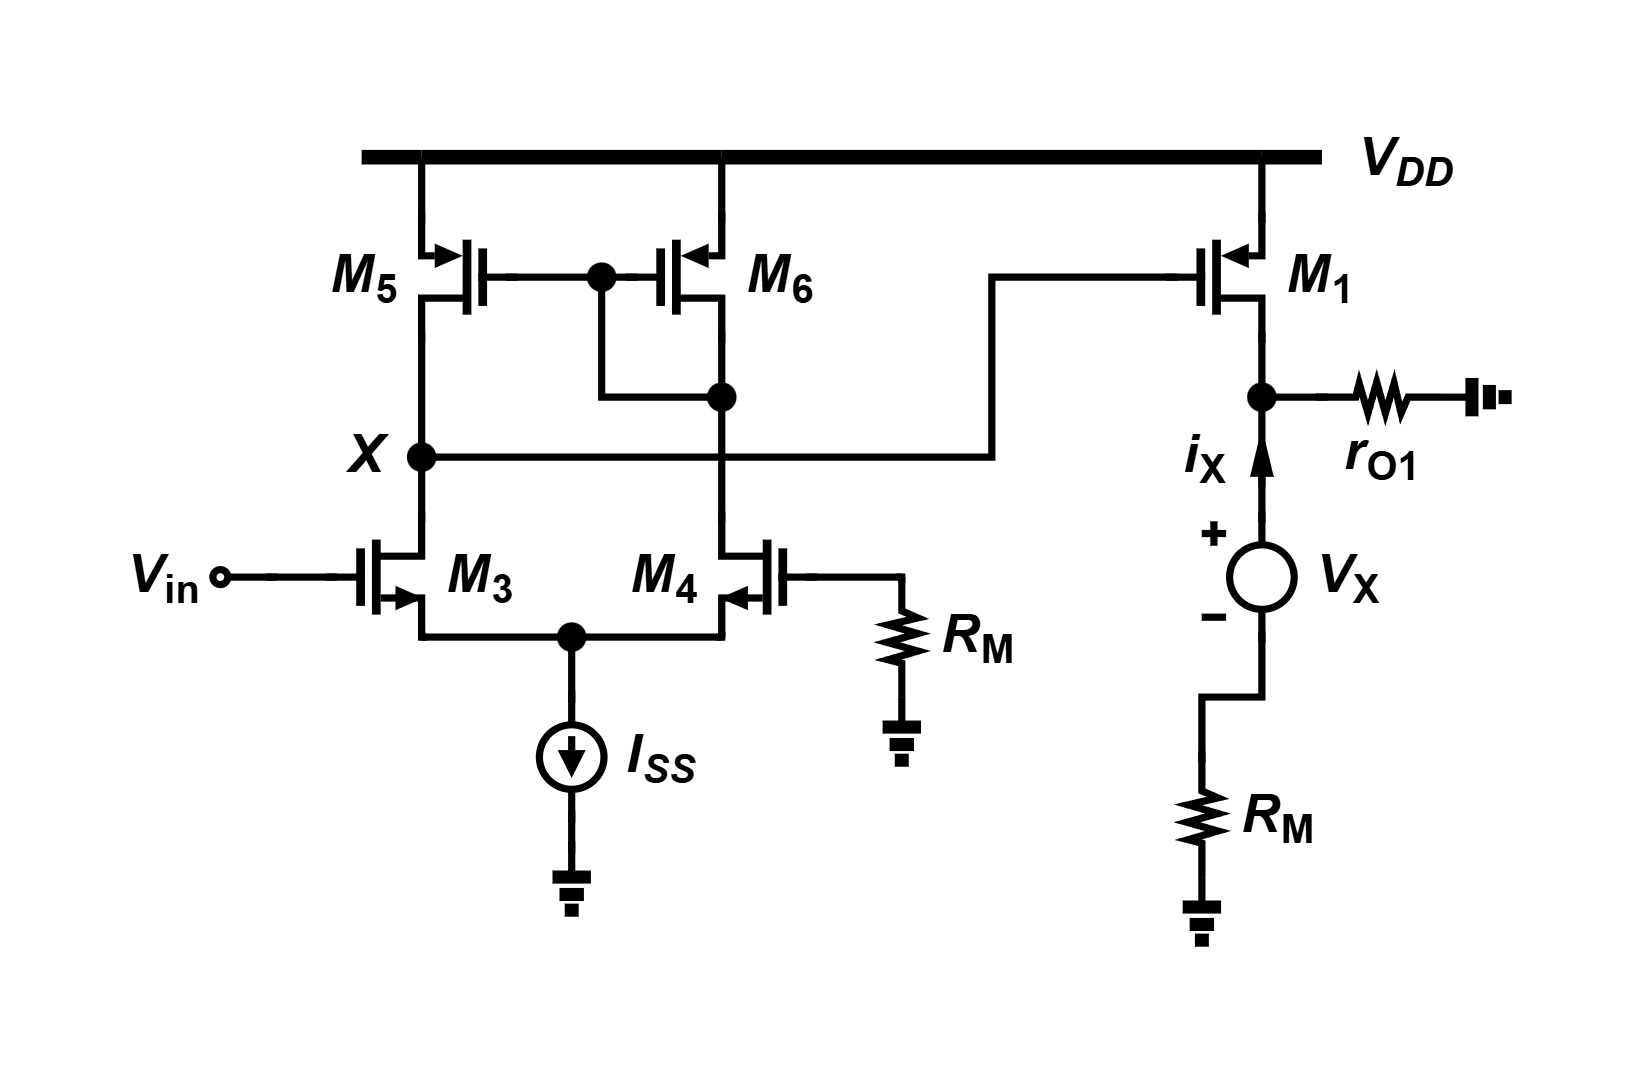
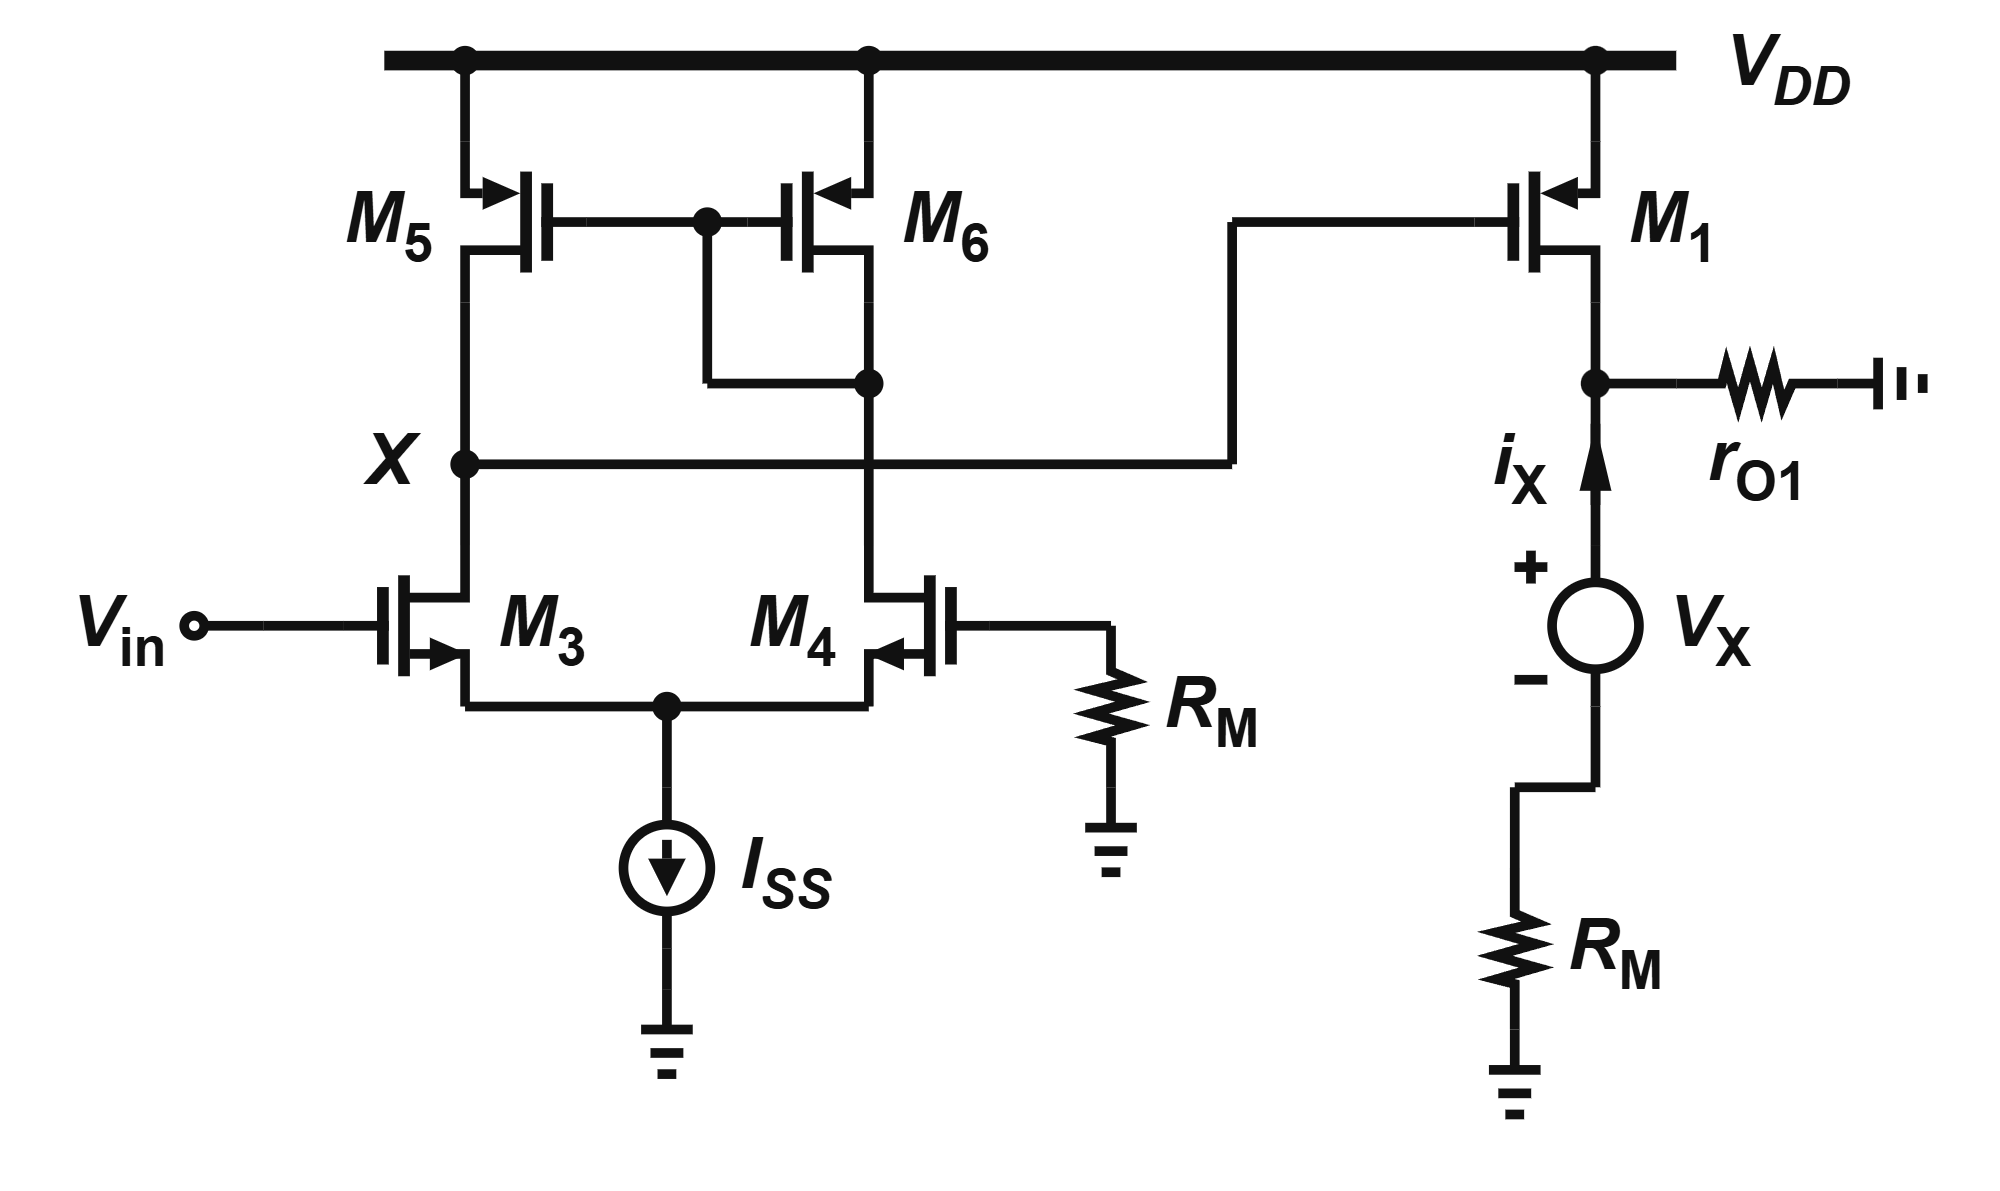
C_GS3 那張改畫成真正的電源軌；示範圖全部刷新成與專案檔同版

Changed region(s): [[0.031, 0.0306, 0.9623, 0.949], [0.8691, 0.0306, 0.9312, 0.0918]]

diff --git a/toolkit/gen_handdrawn_cgs3_probe.py b/toolkit/gen_handdrawn_cgs3_probe.py
@@ -29,7 +29,7 @@ f = Schematic(
     "CgsProbe",
     out_proj=os.path.join(OUT, "Handdrawn_cascode-node_Cgs3-probe.icproj.json"),
     out_svg=os.path.join(HERE, "preview_cgs3probe.svg"),
-    supply_net="net-top", rail_end="VDD", supply_name="VDD",
+    supply_net="net-top", rail_end="jvdd-end", supply_name="VDD",
     nmos_bulk_net="net-gnd")
 
 # ---------------------------------------------------------------- placement
@@ -48,16 +48,18 @@ f.place("VX", "voltage-source", 320, 300, extra={
                             "deviceClass": "voltage-source"},
                 "parameters": {}, "reference": "VX"}})
 f.gnd("GI", 220, 360)
-# the page draws the top wire bare, but it is plainly V_DD: M_3's source and
-# M_5's gate both sit on it (user, 2026-08-30)
-f.place("VDD", "vdd-port", 220, 80,
-        extra={"schematicReference": "VDD"})
+# The page draws the top line thick and running PAST both end taps: that is
+# a power rail, not a vdd-port (user, 2026-08-30; SOP 7 already said "if
+# there is a rail, do not use vdd-port" -- I used one anyway).
 f.gnd("GX", 320, 330)
 
 # ---------------------------------------------------------------- junctions
-for jid, net, x, y in (("JT", "net-top", 150, 100),   # rail: C_GS3 tap
+RAIL = [130, 150, 190, 260, 280]      # 20 of overhang past each end tap
+for jid, net, x, y in (("jvdd-start", "net-top", 130, 100),
+                       ("JT", "net-top", 150, 100),   # rail: C_GS3 tap
                        ("JT2", "net-top", 190, 100),  # rail: M_5 gate riser
                        ("JT3", "net-top", 260, 100),  # rail: M_3 source
+                       ("jvdd-end", "net-top", 280, 100),
                        ("JG", "net-g3", 150, 170),    # C_GS3 down onto the
                        ("JS", "net-g3", 100, 300),    # M_3 gate wire, and that
                        ("JS2", "net-g3", 220, 300),   # wire down to M_5 src
@@ -65,8 +67,7 @@ for jid, net, x, y in (("JT", "net-top", 150, 100),   # rail: C_GS3 tap
     f.junction(jid, net, x, y)
 
 # -------------------------------------------------------------------- nets
-f.net("net-top", [("CGS3", "1"), ("M3", "S"), ("M5", "G"), ("M3", "B"),
-                  ("VDD", "P")])
+f.net("net-top", [("CGS3", "1"), ("M3", "S"), ("M5", "G"), ("M3", "B")])
 f.net("net-g3", [("CGS3", "2"), ("M3", "G"), ("M5", "S"), ("IGM", "+")])
 f.net("net-x", [("M3", "D"), ("M5", "D"), ("VX", "+")])
 f.net("net-gnd", [("IGM", "-"), ("GI", "0"), ("VX", "-"), ("GX", "0"),
@@ -74,9 +75,7 @@ f.net("net-gnd", [("IGM", "-"), ("GI", "0"), ("VX", "-"), ("GX", "0"),
 
 # ------------------------------------------------------------------ routes
 T, Jn = f.term, f.jn
-f.route("r-t-1", "net-top", Jn("JT"), [("to", Jn("JT2"))])
-f.route("r-t-2", "net-top", Jn("JT2"), [("to", T("VDD", "P"))])
-f.route("r-t-3", "net-top", T("VDD", "P"), [("to", Jn("JT3"))])
+f.rail("net-top", 100, RAIL, prefix="r-vdd-rail")
 f.route("r-t-c", "net-top", Jn("JT"), [("to", T("CGS3", "1"))])
 f.route("r-t-m3", "net-top", Jn("JT3"), [("to", T("M3", "S"))])
 f.route("r-t-m5g", "net-top", Jn("JT2"), [("to", T("M5", "G"))])
@@ -100,7 +99,7 @@ f.inst_label("CGS3", -16, 5, "end")
 f.inst_label("M3", 18, 5, "start")
 f.inst_label("M5", 18, 5, "start")
 f.inst_label("VX", 16, 5, "start")
-f.power_label("label-vdd", "net-top", "VDD", 14, 6, "V_DD")
+f.power_label("label-vdd", "net-top", "jvdd-end", 12, 6, "V_DD")
 # I_x flows leftwards into the probed node, on the bus V_x drives
 f.arrow("arrow-ix", 300, 250, 260, 250)
 f.text("n-ix", 280, 238, "middle", name("I_x"))
@@ -111,7 +110,7 @@ f.arrow("arrow-gm", 196, 346, 196, 322)
 f.text("n-gm", 188, 346, "end",
        {"runs": plain("1/")["runs"] + name("g_m5")["runs"]})
 
-f.build(long_haul={"r-t-3",        # 70: the rail across to M_3's source
+f.build(long_haul={"r-vdd-rail-2",  # 70: the rail on to M_3's source
                    "r-t-m3",       # 50: and down to it
                    "r-t-m5g",      # 170: the gate riser down to M_5
                    "r-g-m3",       # 80: the gate wire across to M_3
@@ -120,6 +119,7 @@ f.build(long_haul={"r-t-3",        # 70: the rail across to M_3's source
                    "r-g-bus",      # 120: and back across under M_5
                    "r-x-m3",       # 50+60: M_3's drain doglegs onto the bus
                    "r-x-m5"},      # 80: the bus over to the corner
+        rail_ends={"jvdd-start", "jvdd-end"},
         viewbox=(50, 40, 340, 350),
         # plain on purpose: "1/" is arithmetic, not a device name
         expect_differ={"n-gm"})

diff --git a/SOP.md b/SOP.md
@@ -520,6 +520,10 @@ scale: 2.680 px/unit  (body 67 px = channel bar 25 units)
   就不要因為省事把它掛在 `r_π1` 正下方。看得懂的骨架＝規格。
 - **橫躺的接地擺在它所在那條帶的正中間**（使用者裁示）。例：上排 100、接地匯流排
   210 ⇒ 那根引線走 **150**（中點 155 取格線），不要貼著上排。
+- **一條「超出兩端」的粗橫線＝電源軌，不是 `vdd-port`**（使用者 2026-08-30 指正）。
+  判準就是它有沒有伸出最外側的分支點；有就照 §7 畫軌（`presentation:"power-rail"`
+  ＋兩端外伸 20 ＋端點 power-label），**不要放一顆 `vdd-port` 符號充數**。
+  ⚠ 手繪圖常常不畫任何電源符號，只畫那條線——**要自己認出來**。
 - **原樣重畫**：頁面上畫錯或多餘的東西（例：兩端都接地的受控源）**照畫**，
   不要自己「修好」——那是使用者的作業內容，不是我的判斷範圍。
 - **沒有標籤的元件仍要有 netlist 名字**：`f.isrc(iid, x, y, "")` 會讓 schema 以
